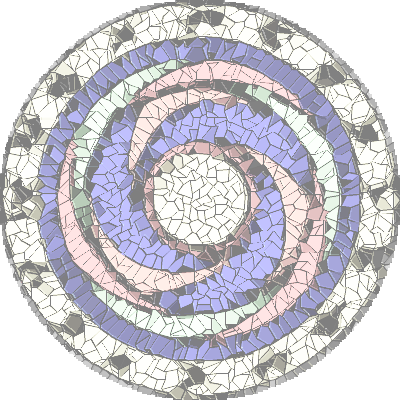
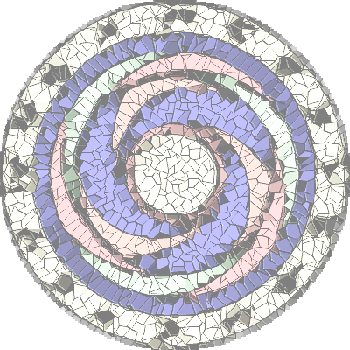
adds the godddess grimoire on the ground for reading

Changed region(s): [[0.0, 0.0, 1.0, 1.0]]

diff --git a/levels/060_heaven$.js b/levels/060_heaven$.js
@@ -110,7 +110,7 @@ if (HEAVEN_SEQUENCE.startsWith(GODDESS_SEQUENCE)){
     BATTLE.api.make("heaven/_goddess", endFight);
   };
 
-  var s = new S_StainedGlass_wall(1175,1475, 'circle');
+  var s = new S_StainedGlass_wall(1200,1430, 'circle');
   s.visual_element.adjust_depth(0);
   s.interaction = undefined;
 
@@ -118,6 +118,10 @@ if (HEAVEN_SEQUENCE.startsWith(GODDESS_SEQUENCE)){
   new S_SavePoint(1550, 1525);
   new S_SavePoint(1550, 1125);
   new S_SavePoint(1150, 1125);
+
+  if (STATS.ending(ENDINGS.God)){
+    new S_Grimoire(1350,1495);
+  }
 }
 
 

diff --git a/objects/Specials.js b/objects/Specials.js
@@ -396,3 +396,19 @@ class S_SlimeTip extends S_event {
     ]);
   }
 }
+
+class S_Grimoire extends SimpleObject {
+  constructor(x, y, seed){
+    super(x, y, 48, 41, "heaven/grimoire");
+    this.adjust_hitbox(0,0,48, 41);
+
+
+    this.default_text = function(){
+      TextBannerSequence.make([
+        `On the ground, an old looking tome is open to a half-written page. The ink looks fresh but traces letters with a inhuman precision. It appears to be some sort of diary. It reads:`,
+        `"Day XX."`
+      ]);
+    };
+
+  }
+}

diff --git a/engine/modules/MEMORY/RESOURCES.js b/engine/modules/MEMORY/RESOURCES.js
@@ -295,6 +295,7 @@ const RESOURCES = {
     RESOURCES.get_img('assets/objects/heaven/tomb1.png');
     RESOURCES.get_img('assets/objects/heaven/tomb2.png');
     RESOURCES.get_img('assets/objects/heaven/tomb3.png');
+    RESOURCES.get_img('assets/objects/heaven/grimoire.png');
     RESOURCES.get_img('assets/objects/hell/beelzebub.png');
     RESOURCES.get_img('assets/objects/hell/plant.png');
     RESOURCES.get_img('assets/objects/hell/plant2.png');

diff --git a/objects/Interior.js b/objects/Interior.js
@@ -72,6 +72,8 @@ class S_StainedGlass_wall extends LevelObject {
     var visual = new StaticSprite("assets/objects/stainedglass/" + type + ".png", 'obj_light');
     if(type == "church") {
       visual.specify_sprite_size(41, 140);
+    } else if(type == "circle") {
+      visual.specify_sprite_size(350, 350);
     } else {
       visual.specify_sprite_size(55, 140);
     }
